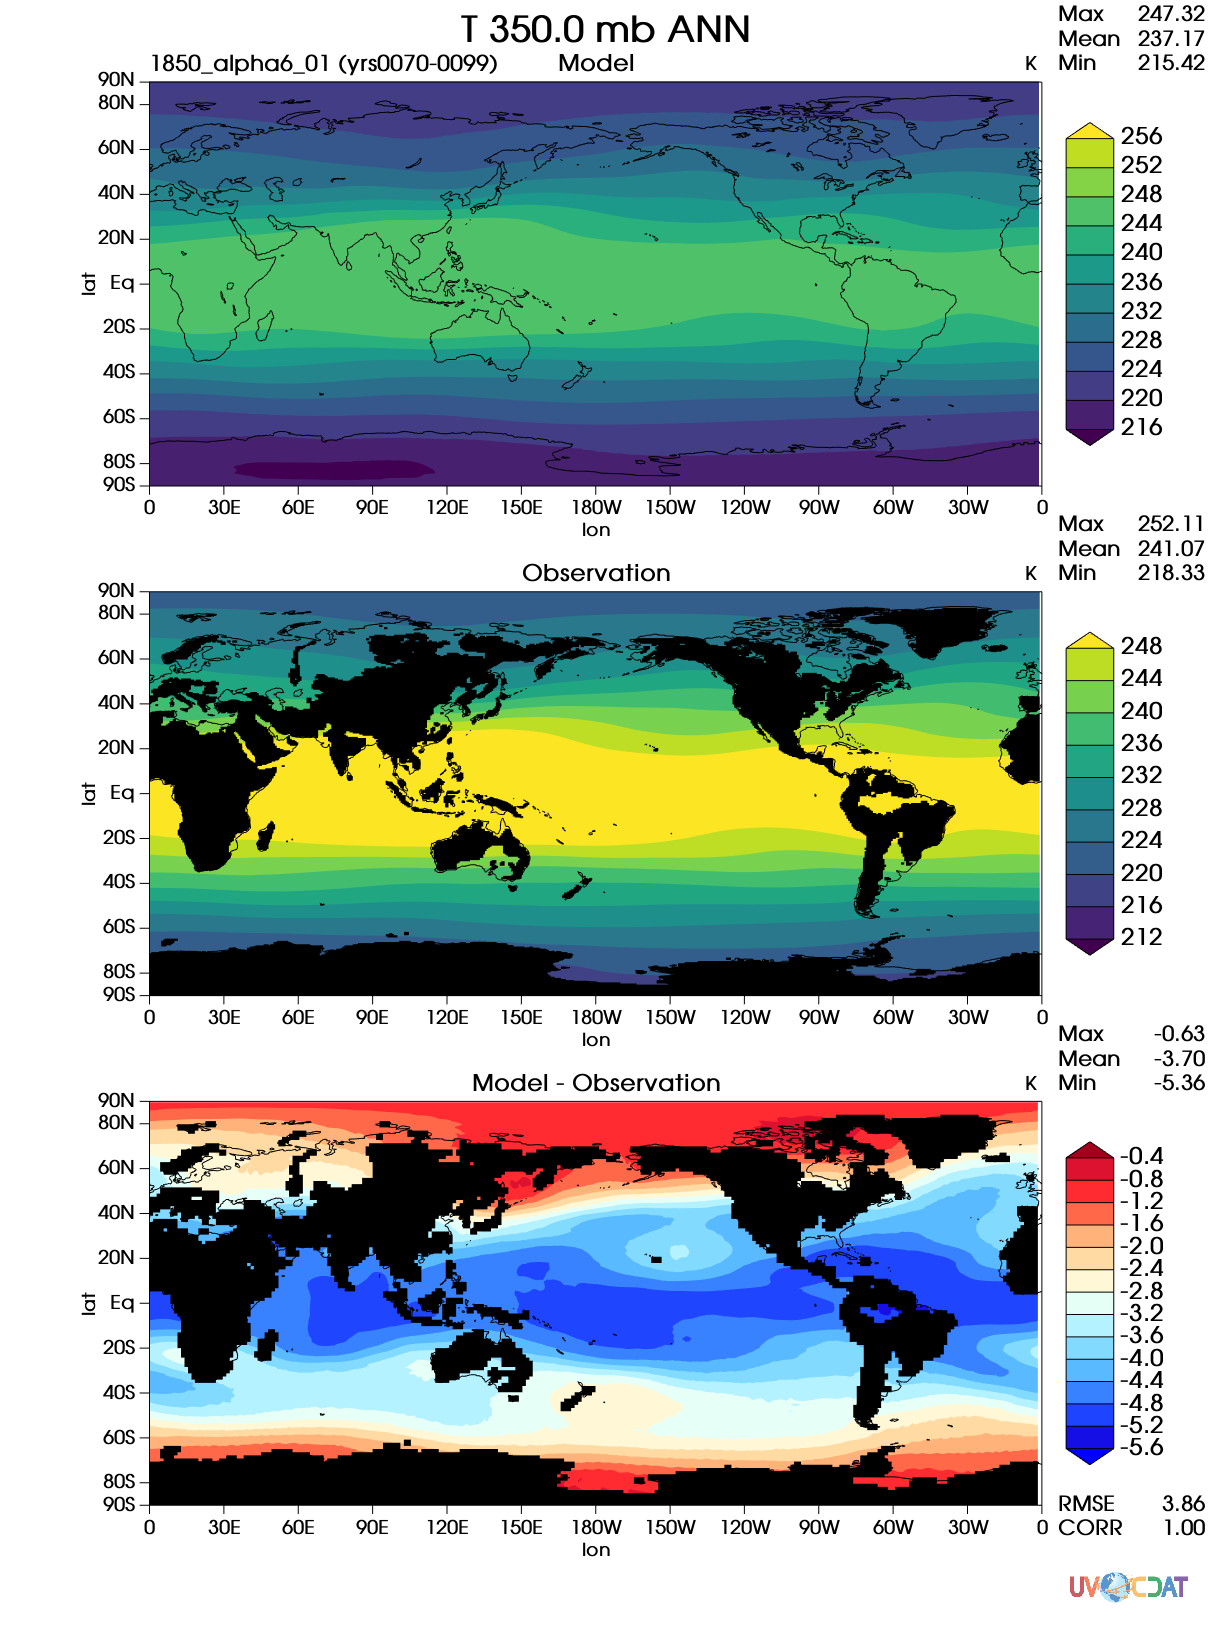
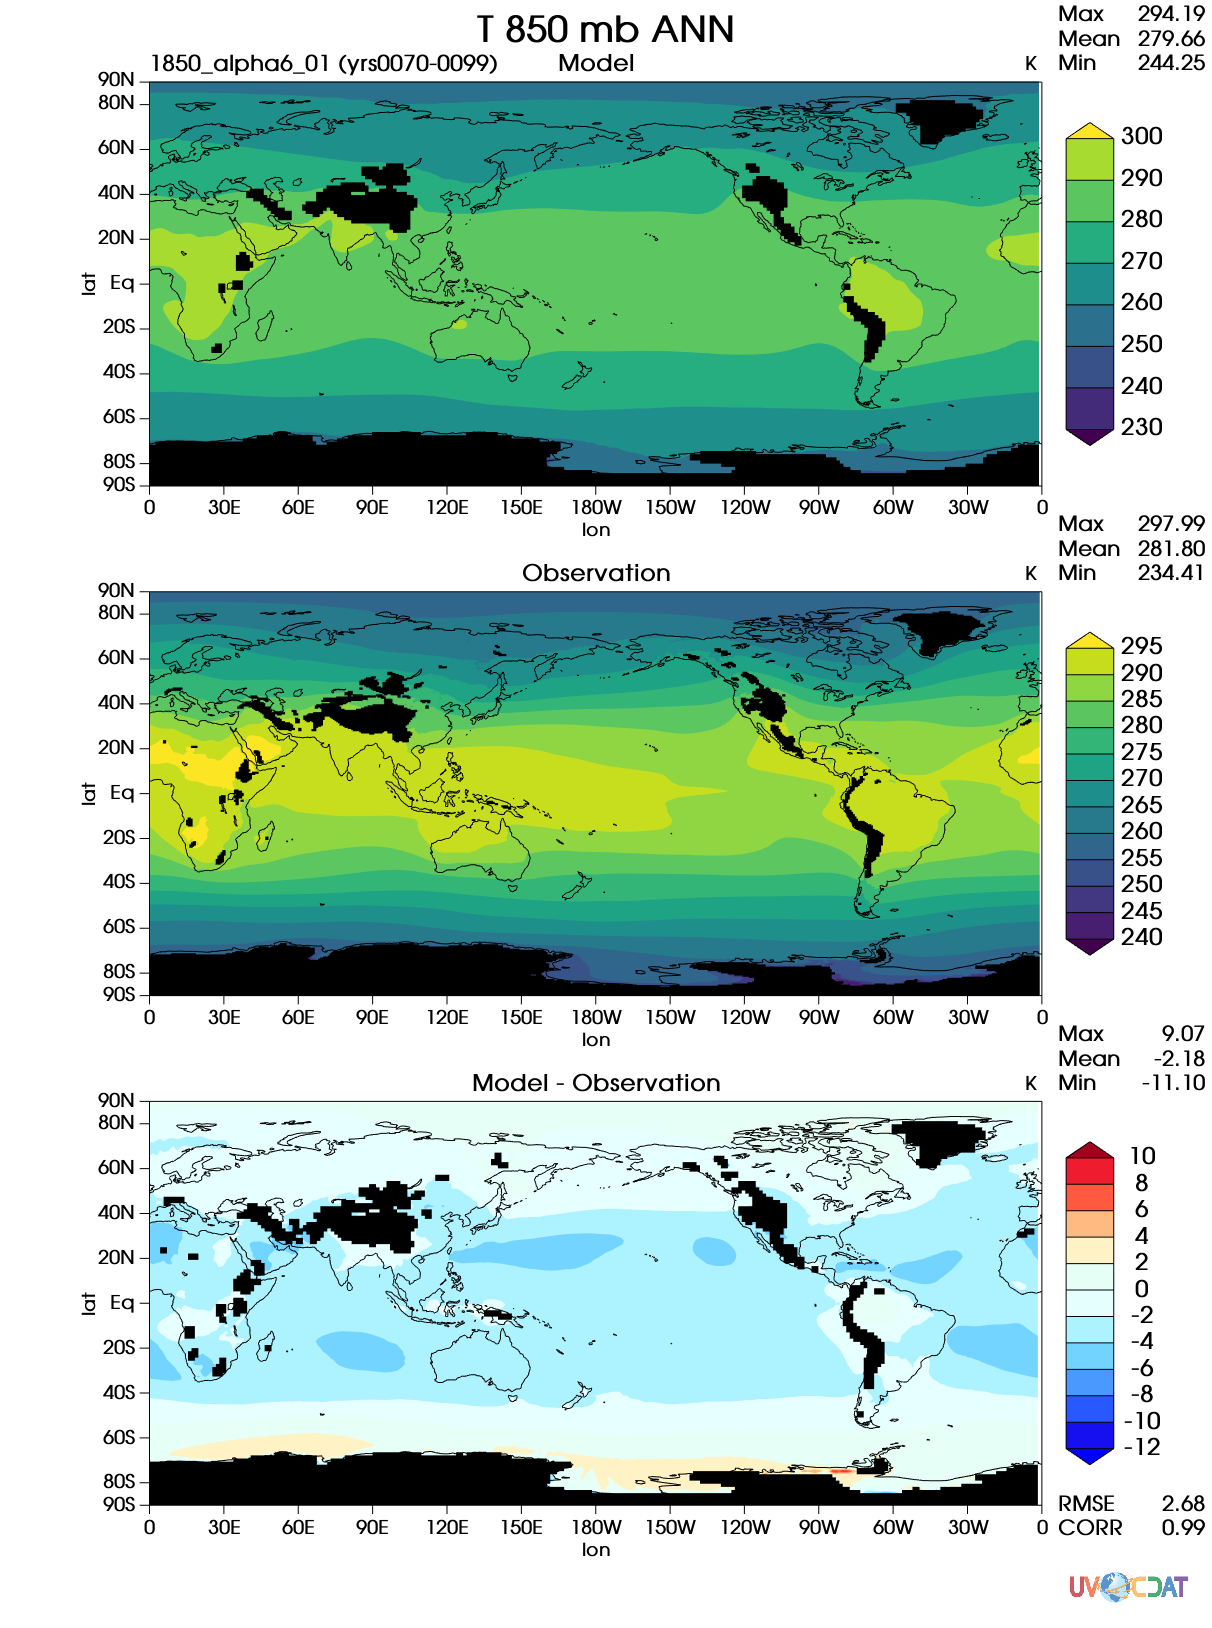
clean-up plev section

diff --git a/acme_diags/plotset5/set5_ANN_PRECT_GPCP_model.py b/acme_diags/plotset5/set5_ANN_PRECT_GPCP_model.py
@@ -33,14 +33,15 @@ elif var == 'T':
 
 #    plev = 850
     plev = parameter.plev
-    print plev
+    print 'selected pressure level', plev
 
     for filename in [filename1,filename2]:
         f_in = cdms2.open(filename)
-        mv = f_in(var)
+        mv = f_in[var] # Square brackets for metadata preview
         mv_plv = mv.getLevel()
 
         if mv_plv.long_name.lower().find('hybrid') != -1: # var(time,lev,lon,lat) convert from hybrid level to pressure
+            mv = f_in (var) # Parentheses actually load the transient variable     
             hyam = f_in('hyam')
             hybm = f_in('hybm')
             ps = f_in('PS')/100.    #convert unit from 'Pa' to mb
@@ -50,15 +51,21 @@ elif var == 'T':
             mv_p=cdutil.vertical.logLinearInterpolation(mv, levels_orig, plev)
 
         elif mv_plv.long_name.lower().find('pressure') != -1 or mv_plv.long_name.lower().find('isobaric') != -1: # levels are presure levels
-            #Construct pressure level for interpolation
-            levels_orig = mv.clone()
-            levels_orig.units = 'mb'
-            levels_orig.id = 'pressure'
-
-            for ilev in range(len(mv_plv[:])):
-                levels_orig.data[:,ilev,:,:]=mv_plv[ilev]
-
-            mv_p=cdutil.vertical.logLinearInterpolation(mv[:,::-1,:,:], levels_orig[:,::-1,:,:], plev)   #logLinearInterpolation only takes positive down plevel: "I :      interpolation field (usually Pressure or depth) from TOP (level 0) to BOTTOM (last level), i.e P value going up with each level"
+            # if desired plev exists, read from input file, otherwise, interpolate
+            try:
+                plev_ind = mv_plv.tolist().index(plev)
+                mv_p = f_in(var,level= plev)
+            except:
+                mv = f_in (var)
+                #Construct pressure level for interpolation
+                levels_orig = mv.clone()
+                levels_orig.units = 'mb'
+                levels_orig.id = 'pressure'
+    
+                for ilev in range(len(mv_plv[:])):
+                    levels_orig[:,ilev,:,:]=mv_plv[ilev]
+    
+                mv_p=cdutil.vertical.logLinearInterpolation(mv[:,::-1,:,:], levels_orig[:,::-1,:,:], plev)   #logLinearInterpolation only takes positive down plevel: "I :      interpolation field (usually Pressure or depth) from TOP (level 0) to BOTTOM (last level), i.e P value going up with each level"
 
         else:
             print( 'Vertical level is neither hybrid nor pressure. Abort')

diff --git a/acme_diags/plotset5/set5parameter_lev.py b/acme_diags/plotset5/set5parameter_lev.py
@@ -8,7 +8,7 @@ test_data_path = '/Users/zhang40/Documents/ACME_simulations/'
 reference_data_set = 'MERRA_ANN_climo.nc'  # observation
 test_data_set = '20160520.A_WCYCL1850.ne30_oEC.edison.alpha6_01_ANN_climo.nc'  # model
 variables = 'T'
-plev = 800
+plev = 850
 season = 'ANN'
 output_file = 'test_lev.png'
 
